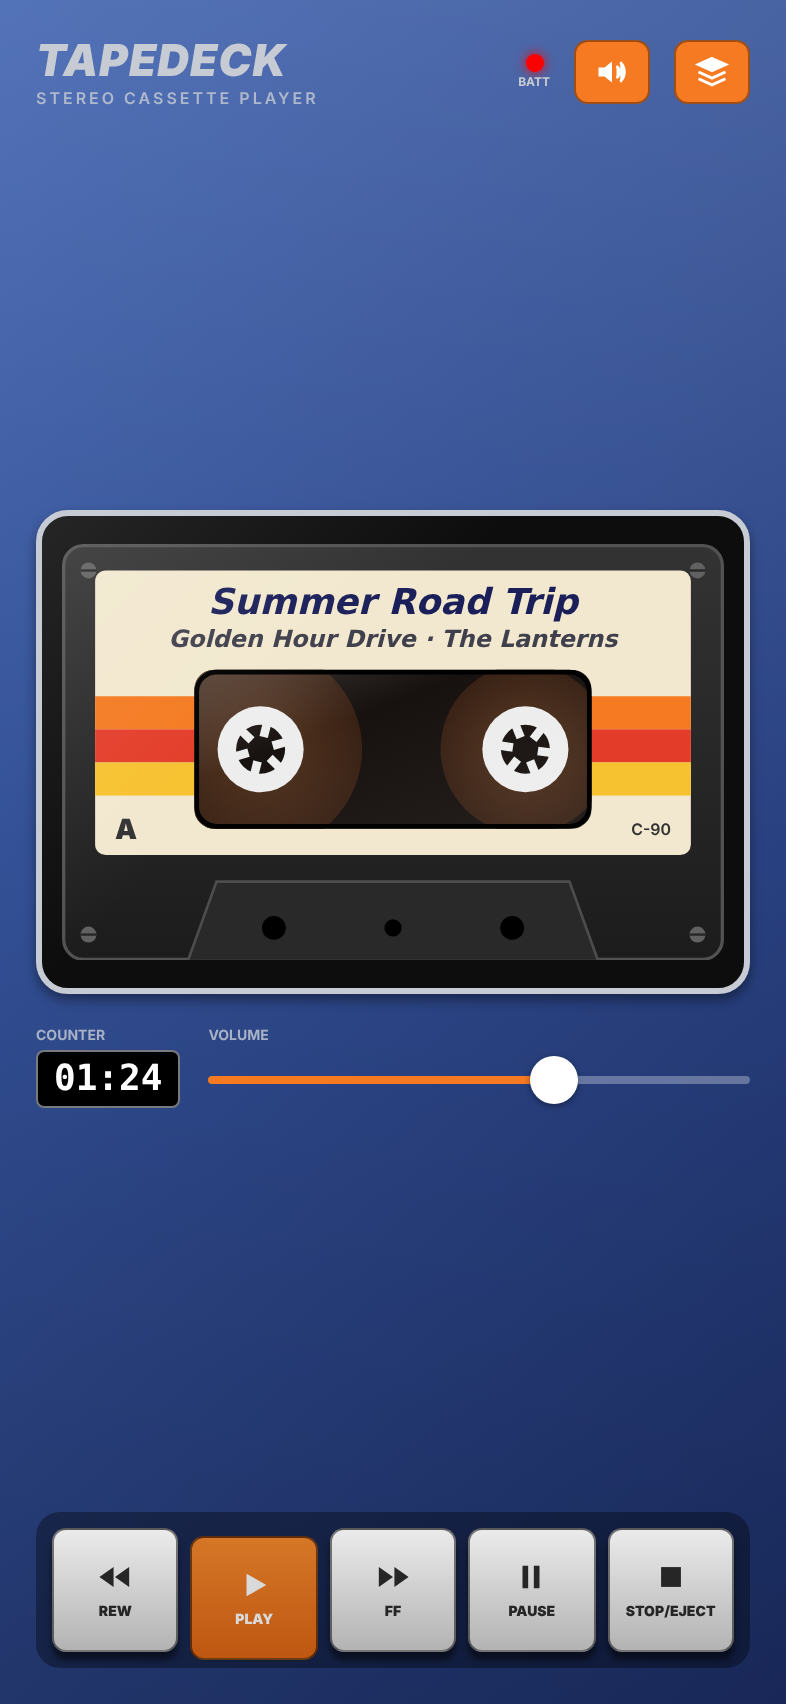
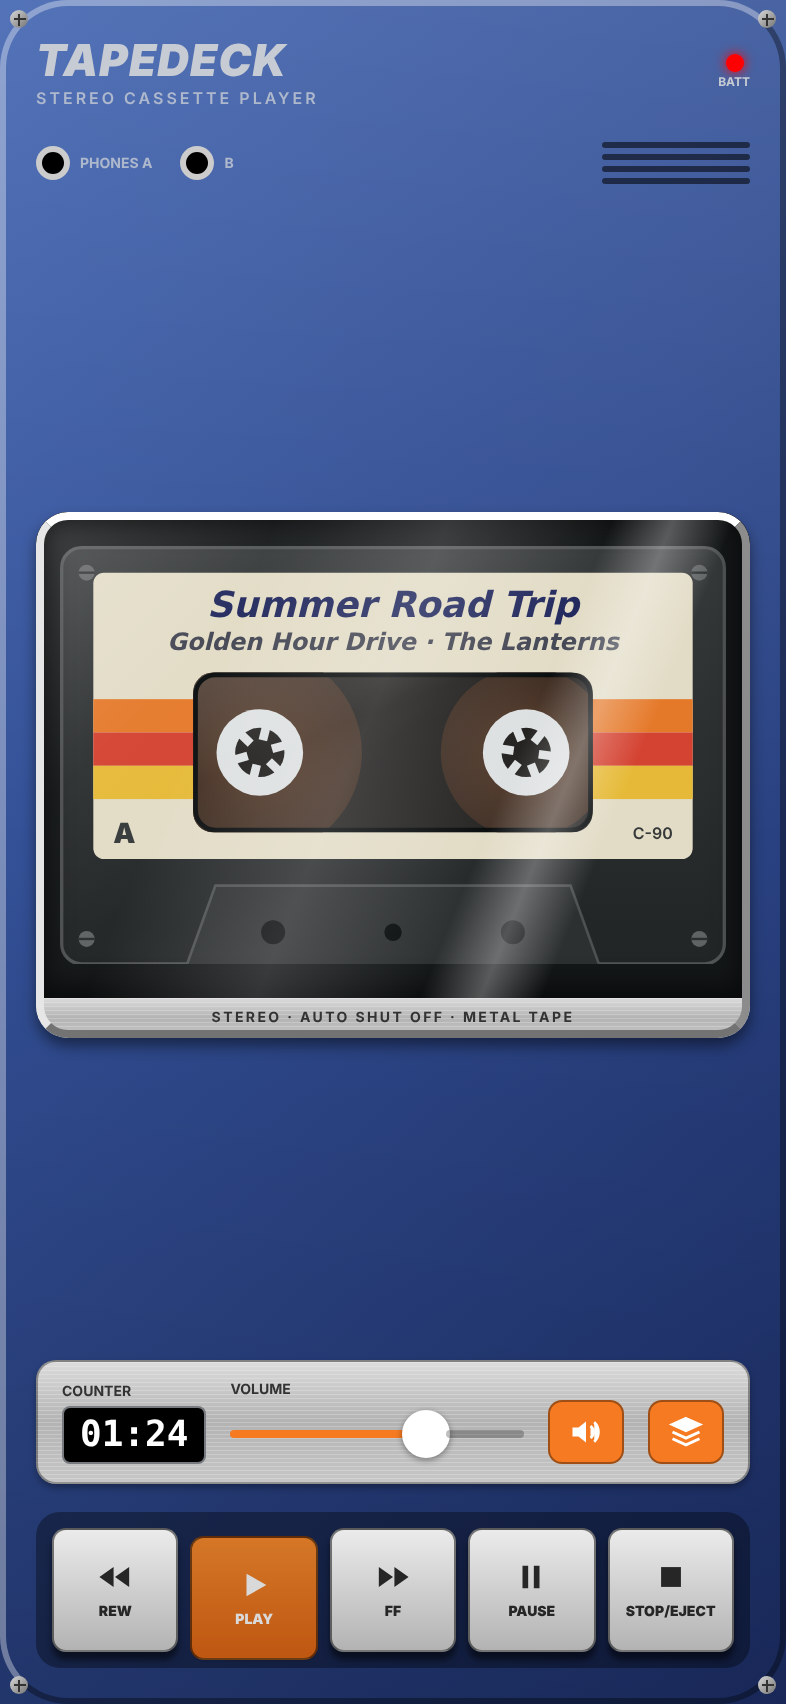
Make the player look like the outside of a tape deck
Glass cassette door with a chrome bezel, a reflection that follows the
phone's tilt and a periodic glint, a brushed metal control plate, case
screws, headphone sockets and a vent.

Claude-Session: https://claude.ai/code/session_015CNmSEpanpmujmbPK8yXHv

diff --git a/TapeDeck/DeckView.swift b/TapeDeck/DeckView.swift
@@ -1,7 +1,8 @@
 import SwiftUI
 import MediaPlayer
 
-/// The player body: cassette door, counter, volume and the row of piano keys.
+/// The outside of the player: anodised body, glass cassette door, a brushed
+/// control plate with counter and volume, and the row of piano keys.
 struct DeckView: View {
     @EnvironmentObject private var model: PlayerModel
     var showShelfButton: Bool
@@ -19,23 +20,25 @@ struct DeckView: View {
                         VStack(spacing: 10) {
                             header
                             Spacer(minLength: 0)
-                            readouts
+                            controlPlate
                             transport
                         }
                     }
                 } else {
-                    VStack(spacing: 16) {
+                    VStack(spacing: 14) {
                         header
+                        trim
                         Spacer(minLength: 0)
                         door
-                        readouts
                         Spacer(minLength: 0)
+                        controlPlate
                         transport
                     }
                 }
             }
             .padding(18)
             .frame(width: geo.size.width, height: geo.size.height)
+            .overlay(caseScrews.padding(5))
         }
         .background(bodyFinish.ignoresSafeArea())
     }
@@ -50,7 +53,43 @@ struct DeckView: View {
             // Soft sheen across the metal
             LinearGradient(colors: [Color.white.opacity(0.10), .clear, Color.black.opacity(0.15)],
                            startPoint: .top, endPoint: .bottom)
+            // Bevel where the case edge catches the light
+            RoundedRectangle(cornerRadius: 34)
+                .strokeBorder(LinearGradient(colors: [Color.white.opacity(0.35), Color.black.opacity(0.35)],
+                                             startPoint: .topLeading, endPoint: .bottomTrailing),
+                              lineWidth: 3)
         }
+    }
+
+    private var caseScrews: some View {
+        VStack {
+            HStack { Screw(); Spacer(); Screw() }
+            Spacer()
+            HStack { Screw(); Spacer(); Screw() }
+        }
+    }
+
+    /// Headphone sockets and a vent, as on the top edge of a real player.
+    private var trim: some View {
+        HStack(spacing: 14) {
+            ForEach(["PHONES A", "B"], id: \.self) { name in
+                HStack(spacing: 5) {
+                    Circle()
+                        .fill(Color.black)
+                        .frame(width: 11, height: 11)
+                        .padding(3)
+                        .background(Circle().fill(Color(white: 0.8)))
+                    Text(name).font(.system(size: 7, weight: .bold)).foregroundColor(silver.opacity(0.8))
+                }
+            }
+            Spacer()
+            VStack(spacing: 3) {
+                ForEach(0..<4, id: \.self) { _ in
+                    Capsule().fill(Color.black.opacity(0.55)).frame(width: 74, height: 3)
+                }
+            }
+        }
+        .accessibilityHidden(true)
     }
 
     private var header: some View {
@@ -76,6 +115,104 @@ struct DeckView: View {
             }
             .accessibilityHidden(true)
 
+        }
+    }
+
+    private var lampOn: Bool {
+        model.motion != .stopped && model.motion != .paused
+    }
+
+    private var door: some View {
+        VStack(spacing: 0) {
+            ZStack {
+                Color(white: 0.05)
+                if model.hasTape {
+                    CassetteView(title: model.tapeTitle,
+                                 subtitle: cassetteSubtitle,
+                                 progress: model.progress,
+                                 motion: model.motion)
+                        .padding(12)
+                        .transition(.move(edge: .top).combined(with: .opacity))
+                } else {
+                    VStack(spacing: 8) {
+                        Image(systemName: "eject.fill").font(.system(size: 26))
+                        Text("NO TAPE").font(.system(size: 14, weight: .bold)).tracking(3)
+                        Text(showShelfButton ? "Tap to choose one" : "Pick one from the shelf")
+                            .font(.system(size: 11))
+                    }
+                    .foregroundColor(silver.opacity(0.55))
+                }
+                glass
+            }
+            .aspectRatio(100.0 / 68.0, contentMode: .fit)
+
+            // Printed lip along the bottom of the door
+            Text("STEREO  ·  AUTO SHUT OFF  ·  METAL TAPE")
+                .font(.system(size: 7, weight: .bold))
+                .tracking(1.2)
+                .lineLimit(1)
+                .minimumScaleFactor(0.6)
+                .foregroundColor(Color(white: 0.2))
+                .padding(.horizontal, 10)
+                .frame(maxWidth: .infinity)
+                .frame(height: 20)
+                .background(BrushedSilver())
+        }
+        .clipShape(RoundedRectangle(cornerRadius: 16))
+        // Chrome bezel
+        .overlay(
+            RoundedRectangle(cornerRadius: 16)
+                .strokeBorder(LinearGradient(colors: [Color.white, Color(white: 0.55), Color(white: 0.9),
+                                                      Color(white: 0.45)],
+                                             startPoint: .topLeading, endPoint: .bottomTrailing),
+                              lineWidth: 4)
+        )
+        .shadow(color: .black.opacity(0.45), radius: 7, y: 4)
+        .contentShape(Rectangle())
+        .onTapGesture {
+            if !model.hasTape { openShelf() }
+        }
+    }
+
+    /// The door window: smoked glass, a fixed reflection in one corner, a dark
+    /// edge where the glass meets the frame, and the moving shimmer.
+    private var glass: some View {
+        ZStack {
+            Color(red: 0.35, green: 0.45, blue: 0.50).opacity(0.10)
+            LinearGradient(colors: [Color.white.opacity(0.20), Color.white.opacity(0.04), .clear],
+                           startPoint: .topLeading, endPoint: .center)
+            Rectangle()
+                .strokeBorder(Color.black.opacity(0.55), lineWidth: 8)
+                .blur(radius: 6)
+            GlassShimmer()
+        }
+        .clipped()
+        .allowsHitTesting(false)
+    }
+
+    private var cassetteSubtitle: String {
+        if model.trackTitle.isEmpty { return model.trackArtist }
+        if model.trackTitle == model.tapeTitle { return model.trackArtist }
+        return model.trackArtist.isEmpty ? model.trackTitle : "\(model.trackTitle) · \(model.trackArtist)"
+    }
+
+    private var controlPlate: some View {
+        HStack(alignment: .bottom, spacing: 12) {
+            VStack(alignment: .leading, spacing: 3) {
+                Text("COUNTER").font(.system(size: 7, weight: .bold)).foregroundColor(Color(white: 0.2))
+                Text(Self.clock(model.elapsed))
+                    .font(.system(size: 18, weight: .semibold, design: .monospaced))
+                    .foregroundColor(.white)
+                    .padding(.horizontal, 8)
+                    .padding(.vertical, 3)
+                    .background(RoundedRectangle(cornerRadius: 4).fill(Color.black))
+                    .overlay(RoundedRectangle(cornerRadius: 4).strokeBorder(Color(white: 0.35), lineWidth: 1))
+                    .accessibilityLabel("Elapsed \(Self.clock(model.elapsed))")
+            }
+            VStack(alignment: .leading, spacing: 3) {
+                Text("VOLUME").font(.system(size: 7, weight: .bold)).foregroundColor(Color(white: 0.2))
+                VolumeSlider().frame(height: 30)
+            }
             Button {
                 model.soundEffectsOn.toggle()
             } label: {
@@ -94,71 +231,12 @@ struct DeckView: View {
                 .accessibilityLabel("Tape shelf")
             }
         }
-    }
-
-    private var lampOn: Bool {
-        model.motion != .stopped && model.motion != .paused
-    }
-
-    private var door: some View {
-        ZStack {
-            RoundedRectangle(cornerRadius: 16).fill(Color(white: 0.05))
-            if model.hasTape {
-                CassetteView(title: model.tapeTitle,
-                             subtitle: cassetteSubtitle,
-                             progress: model.progress,
-                             motion: model.motion)
-                    .padding(10)
-                    .transition(.move(edge: .top).combined(with: .opacity))
-            } else {
-                VStack(spacing: 8) {
-                    Image(systemName: "eject.fill").font(.system(size: 26))
-                    Text("NO TAPE").font(.system(size: 14, weight: .bold)).tracking(3)
-                    Text(showShelfButton ? "Tap to choose one" : "Pick one from the shelf")
-                        .font(.system(size: 11))
-                }
-                .foregroundColor(silver.opacity(0.55))
-            }
-            // Door glass
-            RoundedRectangle(cornerRadius: 16)
-                .fill(LinearGradient(colors: [Color.white.opacity(0.10), .clear, .clear],
-                                     startPoint: .topLeading, endPoint: .bottomTrailing))
-                .allowsHitTesting(false)
-        }
-        .aspectRatio(100.0 / 68.0, contentMode: .fit)
-        .clipShape(RoundedRectangle(cornerRadius: 16))
-        .overlay(RoundedRectangle(cornerRadius: 16).strokeBorder(silver, lineWidth: 3))
-        .shadow(color: .black.opacity(0.4), radius: 6, y: 3)
-        .contentShape(Rectangle())
-        .onTapGesture {
-            if !model.hasTape { openShelf() }
-        }
-    }
-
-    private var cassetteSubtitle: String {
-        if model.trackTitle.isEmpty { return model.trackArtist }
-        if model.trackTitle == model.tapeTitle { return model.trackArtist }
-        return model.trackArtist.isEmpty ? model.trackTitle : "\(model.trackTitle) · \(model.trackArtist)"
-    }
-
-    private var readouts: some View {
-        HStack(spacing: 14) {
-            VStack(alignment: .leading, spacing: 3) {
-                Text("COUNTER").font(.system(size: 7, weight: .bold)).foregroundColor(silver.opacity(0.8))
-                Text(Self.clock(model.elapsed))
-                    .font(.system(size: 18, weight: .semibold, design: .monospaced))
-                    .foregroundColor(.white)
-                    .padding(.horizontal, 8)
-                    .padding(.vertical, 3)
-                    .background(RoundedRectangle(cornerRadius: 4).fill(Color.black))
-                    .overlay(RoundedRectangle(cornerRadius: 4).strokeBorder(silver.opacity(0.6), lineWidth: 1))
-                    .accessibilityLabel("Elapsed \(Self.clock(model.elapsed))")
-            }
-            VStack(alignment: .leading, spacing: 3) {
-                Text("VOLUME").font(.system(size: 7, weight: .bold)).foregroundColor(silver.opacity(0.8))
-                VolumeSlider().frame(height: 30)
-            }
-        }
+        .padding(.horizontal, 12)
+        .padding(.vertical, 9)
+        .background(BrushedSilver())
+        .clipShape(RoundedRectangle(cornerRadius: 10))
+        .overlay(RoundedRectangle(cornerRadius: 10).strokeBorder(Color.black.opacity(0.35), lineWidth: 1))
+        .shadow(color: .black.opacity(0.3), radius: 3, y: 2)
     }
 
     private var transport: some View {

diff --git a/TapeDeck/GlassShimmer.swift b/TapeDeck/GlassShimmer.swift
@@ -1,0 +1,99 @@
+import CoreMotion
+import SwiftUI
+
+/// Reads how far the phone is tilted left or right, as -1...1.
+final class TiltSensor {
+    private let manager = CMMotionManager()
+    private(set) var roll = 0.0
+
+    func start() {
+        guard manager.isDeviceMotionAvailable, !manager.isDeviceMotionActive else { return }
+        manager.deviceMotionUpdateInterval = 1.0 / 30.0
+        manager.startDeviceMotionUpdates(to: .main) { [weak self] motion, _ in
+            guard let motion else { return }
+            self?.roll = max(-1, min(1, motion.attitude.roll / 0.7))
+        }
+    }
+
+    func stop() {
+        manager.stopDeviceMotionUpdates()
+    }
+}
+
+/// Light playing across the door glass. A broad reflection slides as the phone
+/// is tilted, and every few seconds a thin glint sweeps across on its own.
+/// With Reduce Motion on, it is a still reflection.
+struct GlassShimmer: View {
+    @Environment(\.accessibilityReduceMotion) private var reduceMotion
+    @Environment(\.scenePhase) private var scenePhase
+    @State private var tilt = TiltSensor()
+
+    var body: some View {
+        TimelineView(.animation(minimumInterval: 1.0 / 30.0,
+                                paused: reduceMotion || scenePhase != .active)) { context in
+            GeometryReader { geo in
+                let cycle = context.date.timeIntervalSinceReferenceDate
+                    .truncatingRemainder(dividingBy: 7)
+                ZStack {
+                    band(at: 0.35 + tilt.roll * 0.55, width: 0.45, strength: 0.16, in: geo.size)
+                    if !reduceMotion, cycle < 1.3 {
+                        band(at: -0.4 + cycle / 1.3 * 1.8, width: 0.16, strength: 0.30, in: geo.size)
+                    }
+                }
+                .frame(width: geo.size.width, height: geo.size.height)
+            }
+        }
+        .blendMode(.plusLighter)
+        .allowsHitTesting(false)
+        .onAppear { if !reduceMotion { tilt.start() } }
+        .onDisappear { tilt.stop() }
+        .onChange(of: scenePhase) { _, phase in
+            if phase == .active, !reduceMotion {
+                tilt.start()
+            } else {
+                tilt.stop()
+            }
+        }
+    }
+
+    private func band(at position: Double, width: Double, strength: Double, in size: CGSize) -> some View {
+        Rectangle()
+            .fill(LinearGradient(colors: [.clear, Color.white.opacity(strength), .clear],
+                                 startPoint: .leading, endPoint: .trailing))
+            .frame(width: size.width * width, height: size.height * 2.2)
+            .rotationEffect(.degrees(22))
+            .offset(x: (position - 0.5) * size.width)
+    }
+}
+
+/// Brushed aluminium, for the plates and trim on the player body.
+struct BrushedSilver: View {
+    var body: some View {
+        ZStack {
+            LinearGradient(colors: [Color(white: 0.86), Color(white: 0.70), Color(white: 0.78)],
+                           startPoint: .top, endPoint: .bottom)
+            Canvas { context, size in
+                var y: CGFloat = 0.5
+                while y < size.height {
+                    let line = Path(CGRect(x: 0, y: y, width: size.width, height: 0.5))
+                    context.fill(line, with: .color(.white.opacity(0.22)))
+                    y += 2
+                }
+            }
+        }
+    }
+}
+
+/// A small cross-head screw.
+struct Screw: View {
+    var body: some View {
+        ZStack {
+            Circle().fill(LinearGradient(colors: [Color(white: 0.85), Color(white: 0.45)],
+                                         startPoint: .topLeading, endPoint: .bottomTrailing))
+            Rectangle().fill(Color(white: 0.2)).frame(width: 6, height: 1)
+            Rectangle().fill(Color(white: 0.2)).frame(width: 1, height: 6)
+        }
+        .frame(width: 9, height: 9)
+        .accessibilityHidden(true)
+    }
+}

diff --git a/README.md b/README.md
@@ -5,7 +5,7 @@ A cassette player for Apple Music. Your playlists and albums are tapes on a shel
 ## What it does
 
 * Plays your Apple Music library and anything from the Apple Music catalogue (MusicKit).
-* Folded phone or any narrow screen: the whole screen is the player, with the cassette, spinning reels and the transport keys.
+* Folded phone or any narrow screen: the whole screen is the outside of the player. A chrome framed glass door shows the cassette and its spinning reels, with a reflection that slides as you tilt the phone and a glint that sweeps across every few seconds. Below it are a brushed metal panel with the counter, volume, sound and shelf buttons, and the five transport keys.
 * Unfolded or any wide screen: the player on the left and the tape shelf on the right.
 * The reels behave like a real tape. The left pack shrinks and the right one grows as the track plays, and each reel turns at the rate its pack size calls for.
 * Keys: REW and FF skip a track on a tap and wind the tape on a hold. PLAY and PAUSE latch down. STOP stops, and a second press ejects.
@@ -33,6 +33,7 @@ Music does not play in the Simulator. Use a real device.
 | `TapeSounds.swift` | Synthesised sound effects |
 | `CassetteView.swift` | The cassette and its reels |
 | `DeckView.swift` | The player body, keys, counter and volume |
+| `GlassShimmer.swift` | The moving reflection on the door glass, brushed metal and screws |
 | `ShelfView.swift` | The tape shelf and search |
 | `LockScreenTape.swift` | Starts and updates the lock screen Live Activity |
 | `Shared/TapeActivity.swift` | Data and key actions shared by the app and the widget extension |
